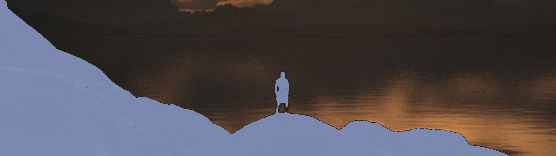
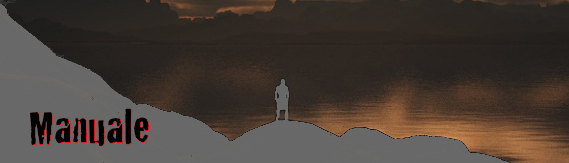
Added animated home.

diff --git a/index.html b/index.html
@@ -28,29 +28,31 @@
 
 			#entra{
 				position: absolute;
-        left: 450px;
-        top: 446px;
-        width: 205px;
-        height: 55px;
-				margin: 0;
+        left: 350px;
+        top: 120px;
+        width: 380px;
+        height: 380px;
       }
 
 			#rules{
 				position: absolute;
         left: 0px;
         bottom: 0px;
-        width: 556px;
-        height: 156px;
+        width: 569px;
+        height: 163px;
 				margin: 0;
       }
 			#forum{
 				position: absolute;
 				right: 0px;
         bottom: 0px;
-        width: 436px;
-        height: 156px;
+        width: 423px;
+        height: 163px;
 				margin: 0;
       }
+			#animated{
+				display: none;
+			}
 
     </style>
 
@@ -69,9 +71,20 @@
 				element.style.backgroundImage="url('"+img+"')";
 			else
 				element.style.backgroundImage="";
-
-
 		}
+
+		function animate_home() {
+			el = document.getElementById("animated");
+			el.src="img/bg_home.gif";
+			el.style.display="block";
+		}
+		function restore_home() {
+			el = document.getElementById("animated");
+			el.style.display="none";
+			el.src="";
+		}
+
+
 
     </script>
 
@@ -79,8 +92,10 @@
   <body>
       <div id="container">
 				<div id="menu">
+				  <img src="img/bg_home.gif" id="animated" />
 					<a href="#" onClick="apriPopupCentrata('engine', 'main', 1028, 728);">
-					<div id="entra"></div></a>
+					<div id="entra" onmouseover="animate_home()"
+					onmouseout="restore_home()"></div></a>
 
 					<a href="manual/">
 						<div id="rules" onmouseover="over(this, 'img/home_l.jpg')"

diff --git a/engine/sources/register_intro.php b/engine/sources/register_intro.php
@@ -18,7 +18,7 @@
 	nostra fisica... Che meraviglioso scenario!
   <br>
 	<br>
-	Ma le cose belle durano sempre poso e la calma di quel paesaggio insolito
+	Ma le cose belle durano sempre poco e la calma di quel paesaggio insolito
 	&#232; stata spezzata dal vostro arrivo.
 	Vi chiamano uomini, ma per noi siete solo scimmie: bestie ignoranti e buone
 	solo come concime o schiavi.
@@ -31,7 +31,8 @@
 	<br>
 	Chiunque tu sceglierai di essere sappi che la citt&#224; di Tharsis &#232;
 	una fortezza dove i signori nephilim si sono arroccati per sfuggire
-	all&#39;Eterno Conflitto; presto ci saranno altri scontri e altri spargimenti
+	all&#39;Eterno Conflitto e a te non &#232; consentito l&#39;accesso per ora;
+	presto ci saranno altri scontri e altri spargimenti
 	di sangue, scegliti un luogo in cui nasconderti o un signore da servire;
 	scimmia,  uomo o mezzo sangue che sia non c&#39;&#232; posto qui per te.
   <br>
